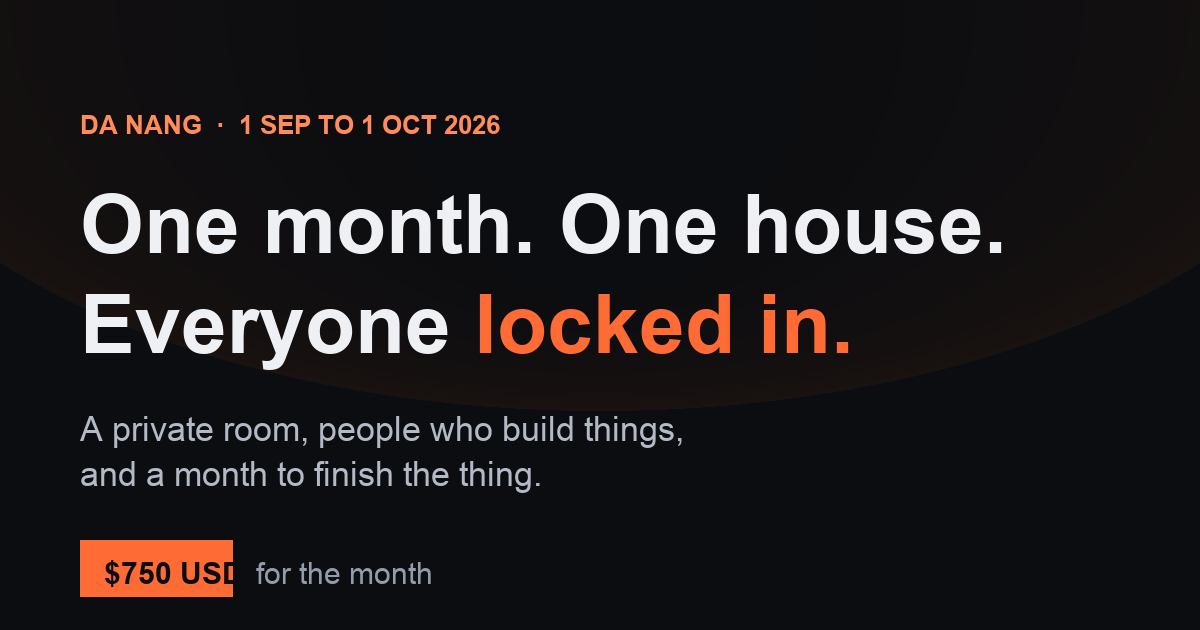
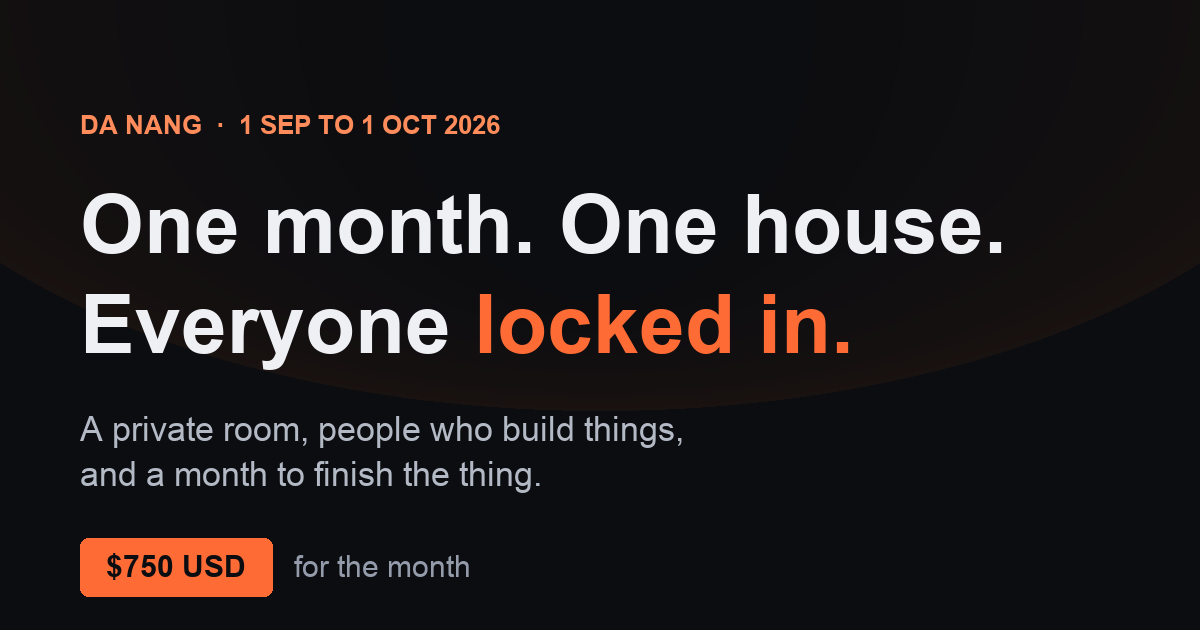
fix: remove false room-is-held claim from reachable path, repair mangled copy, guard clipboard write, rebuild share image

Changed region(s): [[0.0925, 0.8444, 0.4008, 0.9651]]

diff --git a/index.html b/index.html
@@ -130,7 +130,6 @@
     border-radius:12px;padding:30px;text-align:center}
   .done h3{color:var(--ok);margin-bottom:10px;font-size:20px}
   .done p{color:var(--tx2);font-size:15.5px}
-  .hp{position:absolute;left:-9999px}
 
   /* faq */
   details{border-bottom:1px solid var(--line);padding:19px 0}
@@ -202,9 +201,9 @@
 <section id="who"><div class="wrap">
   <div class="kicker">Who it is for</div>
   <h2>A small NS, in Da Nang</h2>
-  <p class="sub">Same idea as Network School, at house scale. A room full of high achieving people working on their own thing, where nobody needs to be told to get on with it.</p>
+  <p class="sub">Same idea as Network School, at house scale. A house full of high achieving people working on their own thing, where nobody needs to be told to get on with it.</p>
   <div class="grid3">
-    <div class="card"><span class="ic">🔁</span><h3>You were at the pop up</h3><p>Jake and Debby's August was good and you are not ready for it to be over. Same people, same city, one more month.</p></div>
+    <div class="card"><span class="ic">🔁</span><h3>You were at the pop up</h3><p>August with Jake and Debby was good and you are not ready for it to be over. Same people, same city, one more month.</p></div>
     <div class="card"><span class="ic">🛠</span><h3>You are building something</h3><p>A company, a product, a book, a body of work. Something with your name on it that is not finished yet.</p></div>
     <div class="card"><span class="ic">📉</span><h3>Alone is not working</h3><p>You have proven you can do it from a room by yourself. You have also noticed how much slower that is.</p></div>
   </div>
@@ -280,7 +279,8 @@
       <h3>Got it</h3>
       <p id="donemsg">You are on the list. Alex will come back to you with the address, the room and how to pay. Nothing is charged and nothing is booked until you hear back.</p>
       <div id="fallback" style="display:none;margin-top:22px;text-align:left">
-        <p style="font-size:14px;color:var(--tx3);margin-bottom:10px">If your email app did not open, copy this and send it to <b style="color:var(--tx2)">hiimalexllc@gmail.com</b>.</p>
+        <p style="font-size:14px;color:var(--tx3);margin-bottom:10px">Prefer to send it yourself? Copy the details and email <b style="color:var(--tx2)">hiimalexllc@gmail.com</b>.</p>
+        <label for="fbtext" style="position:absolute;left:-9999px">Your reservation details</label>
         <textarea id="fbtext" readonly style="min-height:132px;font-size:14px"></textarea>
         <button type="button" class="btn" id="copybtn" style="margin-top:10px">Copy it</button>
       </div>
@@ -370,18 +370,22 @@
     document.getElementById('fbtext').value = body;
     document.getElementById('fallback').style.display = 'block';
     document.getElementById('copybtn').addEventListener('click', function(){
-      var ta = document.getElementById('fbtext');
+      var ta = document.getElementById('fbtext'), btn = this;
       ta.select();
-      if (navigator.clipboard) navigator.clipboard.writeText(ta.value);
-      else document.execCommand('copy');
-      this.textContent = 'Copied';
+      function ok(){ btn.textContent = 'Copied'; }
+      function no(){ btn.textContent = 'Press Ctrl C or Cmd C'; }
+      if (navigator.clipboard && navigator.clipboard.writeText) {
+        navigator.clipboard.writeText(ta.value).then(ok).catch(no);
+      } else {
+        try { document.execCommand('copy') ? ok() : no(); } catch(e){ no(); }
+      }
     });
 
     window.location.href = "mailto:" + TO +
       "?subject=" + encodeURIComponent("Lock In House room: " + data.name) +
       "&body=" + encodeURIComponent(body);
 
-    finish("Your email app should be opening with everything filled in. Hit send and the room is held.");
+    finish("Your email app should be opening with everything filled in. Send it and you are on the list. Nothing is charged and nothing is booked until you hear back.");
   });
 })();
 </script>
